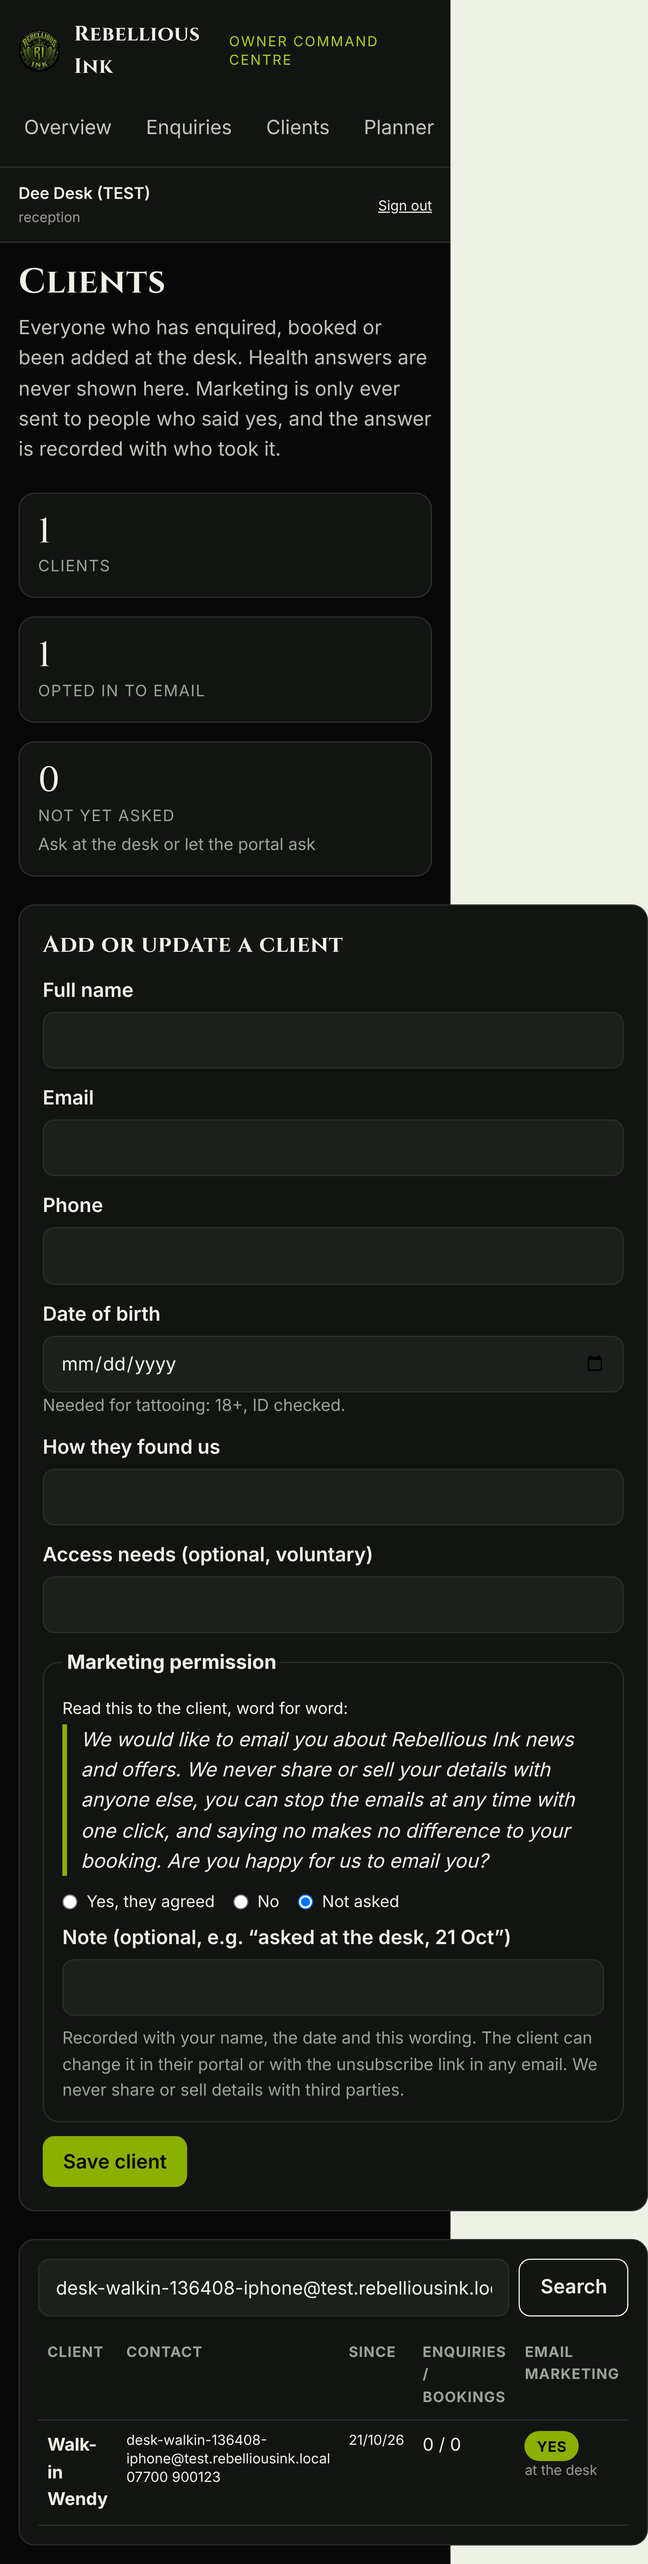
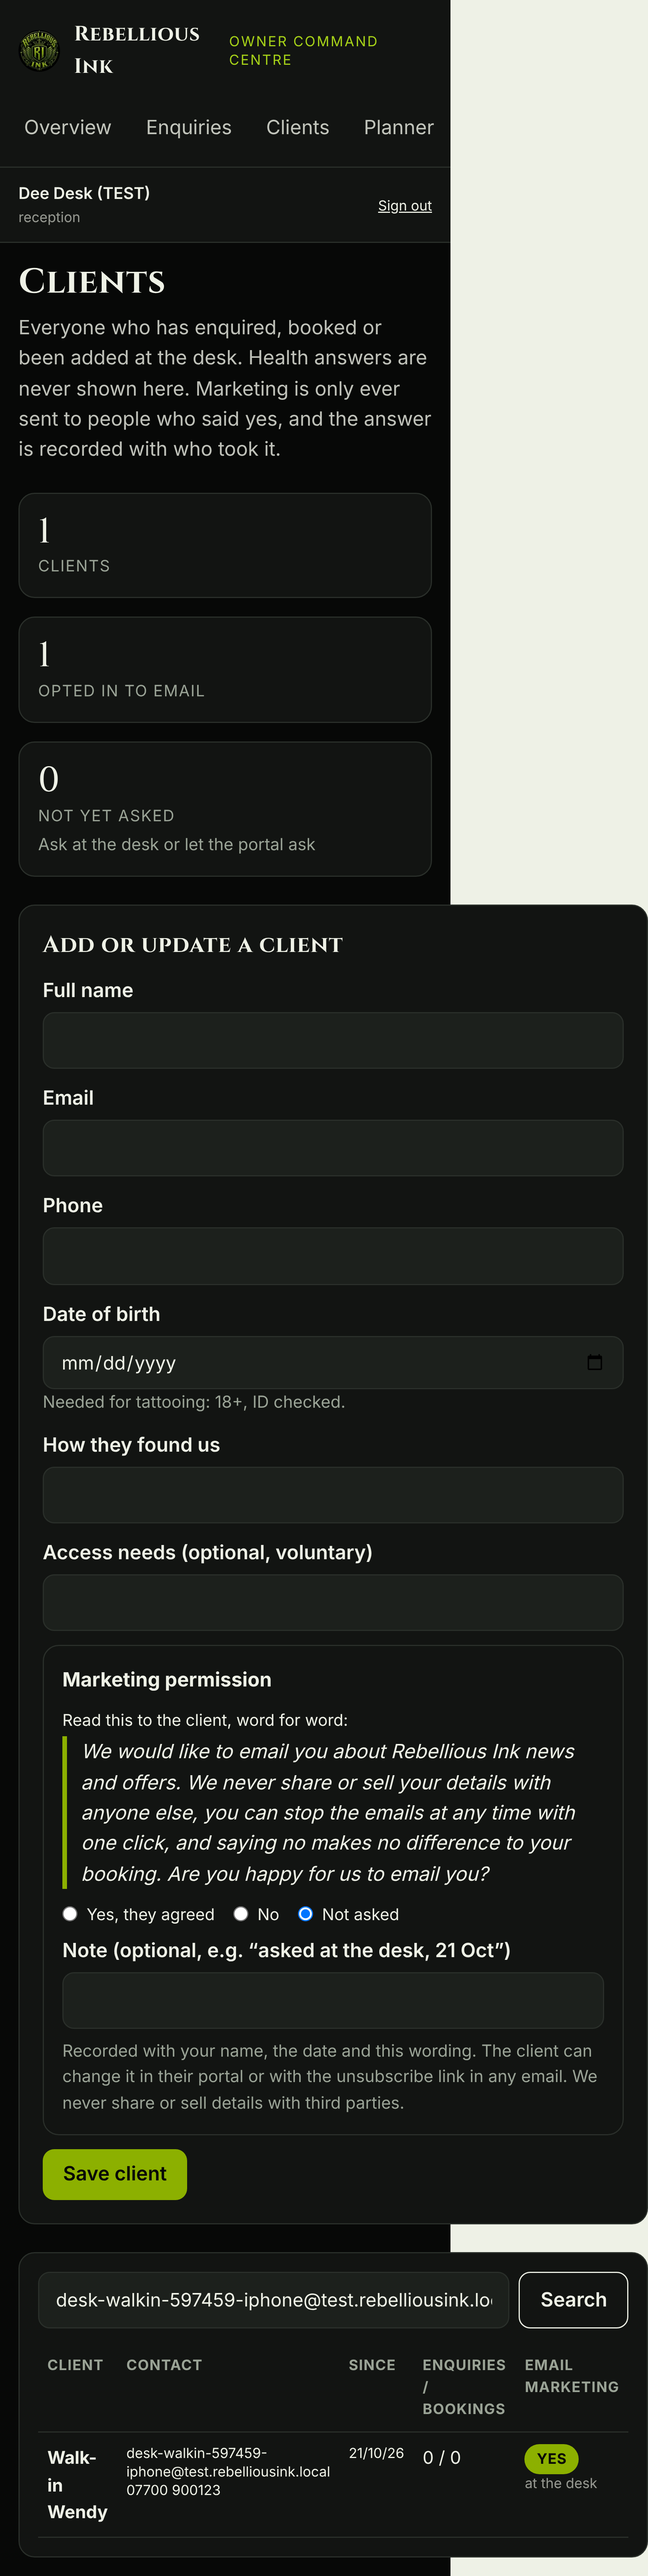
Forms: section titles inside their boxes, date fields stay within cards, header wraps on phones
- Fieldset cards: the legend renders inside the card as a heading instead of sitting on the border; fieldsets no longer force a minimum width.
- Inputs, selects and textareas are capped at their container width; native date, time and datetime fields drop the WebKit appearance so they match the other boxes on iPad and iPhone.
- Public header wraps onto two rows on narrow screens, which removes the sideways scroll on phones.

Claude-Session: https://claude.ai/code/session_01HQugsNMS9BmCLDhiAo1Fj7

diff --git a/rebellious-ink/src/app/globals.css b/rebellious-ink/src/app/globals.css
@@ -72,6 +72,13 @@ h1, h2, h3, .display { font-family: var(--font-display); letter-spacing: 0.02em;
 .input:focus, .select:focus, .textarea:focus { outline: 3px solid var(--acid-soft); border-color: var(--acid-deep); }
 .dark-shell .input, .dark-shell .select, .dark-shell .textarea { background: var(--steel); border-color: var(--graphite); color: var(--bone); }
 label.field { display: block; font-weight: 600; margin-bottom: .35rem; }
+/* Fieldsets used as cards: the legend sits inside the box as a heading, never on the border; nothing spills out. */
+fieldset { min-width: 0; }
+fieldset.card > legend { float: left; width: 100%; padding: 0; margin-bottom: .75rem; }
+fieldset.card > legend + * { clear: both; }
+.input, .select, .textarea { min-width: 0; max-width: 100%; box-sizing: border-box; }
+input[type="date"].input, input[type="time"].input, input[type="datetime-local"].input { -webkit-appearance: none; appearance: none; display: block; line-height: 1.4; }
+
 .hint { color: var(--mist); font-size: .9rem; }
 
 .badge { display: inline-block; border-radius: 999px; padding: .2rem .65rem; font-size: .78rem; font-weight: 700; letter-spacing: .03em; text-transform: uppercase; }

diff --git a/rebellious-ink/src/components/shells.tsx b/rebellious-ink/src/components/shells.tsx
@@ -8,9 +8,9 @@ export function PublicShell({ children, banner }: { children: React.ReactNode; b
   return (
     <>
       <header className="dark-shell border-b border-graphite">
-        <div className="mx-auto max-w-6xl px-4 py-3 flex items-center justify-between gap-4">
+        <div className="mx-auto max-w-6xl px-4 py-3 flex flex-wrap items-center justify-between gap-x-4 gap-y-2">
           <Link href="/" aria-label="Rebellious Ink home"><Logo /></Link>
-          <nav aria-label="Main" className="flex items-center gap-1 text-sm">
+          <nav aria-label="Main" className="flex flex-wrap items-center justify-end gap-1 text-sm">
             <Link className="nav-link" href="/artists">Artists</Link>
             <Link className="nav-link" href="/flash">Flash</Link>
             <Link className="nav-link" href="/play/gumball">Gumball</Link>
